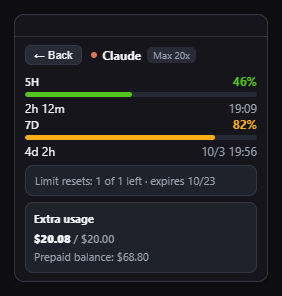
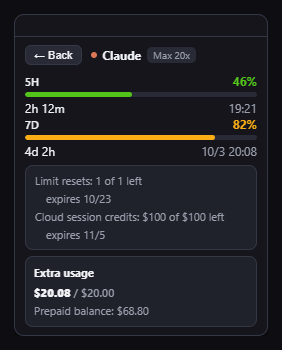
Show Claude's cloud session credits in the detail view
Settings -> Usage on claude.ai now lists a promotional cloud session credit
alongside the plan limits ("US$100 of US$100 left", expires Nov 5). The widget
did not show it. The numbers already arrive in the /usage response, so no extra
request: one of the obfuscated buckets carries limit_dollars / remaining_dollars
/ resets_at (the expiry), and they match the page exactly - $100 of $100 and
Nov 5 16:59 in +09:00. A sibling bucket comes back with every field null and is
ignored. It joins the reset-ticket line in the detail box.

Layout took a second attempt. The first version put label, amount and expiry on
one line, which wrapped in both languages - and the width check that said it fit
was wrong, since a Range over wrapped text reports only the longest line, not the
total. Re-measured with wrapping off, "Cloud session credits: $100 of $100 left ·
expires 11/5" is 257px against 212px of room (the Korean is 256px), and even the
shortened English that just fit would spill as soon as the balance became $62.50.
The expiry now gets its own indented line under each entry, so the main line is
190-209px worst case and nothing depends on where a date happens to wrap.

parseCloudCredits and fmtDollars are pure and tested against the real bucket,
including a spent balance, an already-expired bucket and the all-null sibling.

diff --git a/src/main/collectors/claude-web.ts b/src/main/collectors/claude-web.ts
@@ -2,7 +2,7 @@ import { session as eSession, BrowserWindow, safeStorage } from 'electron'
 import Store from 'electron-store'
 import { UsageSnapshot, UsageWindow, ExtraUsage } from './types'
 import { t } from '../../shared/i18n'
-import { frac, parseResetTickets, ResetTickets } from './usage-math'
+import { frac, parseResetTickets, ResetTickets, parseCloudCredits, CloudCredits, fmtDollars } from './usage-math'
 
 // Uses the same approach as claude-usage-widget: a real claude.ai browser
 // session (sessionKey cookie). The claude.ai web endpoints are what the web app
@@ -151,15 +151,32 @@ function mapExtra(overage: any, prepaid: any): ExtraUsage | undefined {
   }
 }
 
-/** e.g. "Limit resets: 1 of 1 left · expires 10/23" — same slot Codex uses for its
- *  reset credits. Expiry is omitted once none are left. */
-function formatResetTickets(rt: ResetTickets): string {
-  const base = t('claude.resetTickets', rt.left, rt.total)
-  if (!rt.expiresAt || rt.left <= 0) return base
-  const d = new Date(rt.expiresAt)
-  // month/day only, in local time — the same short form the reset clocks use.
-  const when = `${d.getMonth() + 1}/${d.getDate()}`
-  return `${base} · ${t('claude.resetExpires', when)}`
+/** The detail box is ~210px wide, and the amount, the label and the date do not
+ *  reliably fit one line together ("Cloud session credits: $62.50 of $100 left ·
+ *  expires 11/5" is ~260px in English and as wide in Korean), so wrapping decided
+ *  where the date landed. The expiry gets its own indented line instead. An em
+ *  space is used for the indent because HTML collapses ordinary leading spaces. */
+const INDENT = ' '
+
+/** e.g. ["Limit resets: 1 of 1 left", "  expires 10/23"] — the same kind of line
+ *  Codex shows for its reset credits. The expiry is left out once none remain. */
+function formatResetTickets(rt: ResetTickets): string[] {
+  const lines = [t('claude.resetTickets', rt.left, rt.total)]
+  if (rt.expiresAt && rt.left > 0) lines.push(INDENT + t('claude.resetExpires', shortDate(rt.expiresAt)))
+  return lines
+}
+
+/** e.g. ["Cloud session credits: $100 of $100 left", "  expires 11/5"]. */
+function formatCloudCredits(c: CloudCredits): string[] {
+  const lines = [t('claude.cloudCredits', fmtDollars(c.limit), fmtDollars(c.remaining))]
+  if (c.expiresAt && c.remaining > 0) lines.push(INDENT + t('claude.resetExpires', shortDate(c.expiresAt)))
+  return lines
+}
+
+/** month/day only, in local time — the same short form the reset clocks use. */
+function shortDate(iso: string): string {
+  const d = new Date(iso)
+  return `${d.getMonth() + 1}/${d.getDate()}`
 }
 
 /** Returns a snapshot from claude.ai, or null if not logged in / session invalid. */
@@ -194,14 +211,22 @@ export async function collectClaudeWeb(includeExtra: boolean): Promise<UsageSnap
       extra = mapExtra(overage, prepaid)
     }
 
+    // Both live in the /usage response under internal, obfuscated names — the reset
+    // tickets under `cedar_ember` (only present with the flag above) and the cloud
+    // session credits under `iguana_necktie`. If either is renamed its line simply
+    // stops appearing.
+    const info: string[] = []
     const tickets = parseResetTickets(usage.cedar_ember)
+    if (tickets) info.push(...formatResetTickets(tickets))
+    const cloud = parseCloudCredits(usage.iguana_necktie)
+    if (cloud) info.push(...formatCloudCredits(cloud))
 
     return {
       provider: 'claude',
       available: true,
       windows,
       extraUsage: extra,
-      extraInfo: tickets ? [formatResetTickets(tickets)] : undefined,
+      extraInfo: info.length ? info : undefined,
       plan: usage.plan?.name ?? usage.subscription,
       fetched_at: new Date().toISOString(),
       stale: false,

diff --git a/src/main/collectors/usage-math.test.ts b/src/main/collectors/usage-math.test.ts
@@ -1,5 +1,5 @@
 import { describe, it, expect } from 'vitest'
-import { frac, isSpuriousZero, parseResetTickets } from './usage-math'
+import { frac, isSpuriousZero, parseResetTickets, parseCloudCredits, fmtDollars } from './usage-math'
 import { UsageSnapshot, UsageWindow } from './types'
 
 describe('frac', () => {
@@ -148,5 +148,63 @@ describe('parseResetTickets', () => {
   it('skips malformed grants instead of throwing', () => {
     const got = parseResetTickets({ grants: [null, 'x', { resets_left: 'a' }, grant({})] }, NOW)
     expect(got).toMatchObject({ left: 1, total: 1 })
+  })
+})
+
+describe('parseCloudCredits', () => {
+  const NOW = Date.parse('2026-09-29T00:00:00Z')
+
+  // What /usage returned for the cloud session credits bucket.
+  const real = {
+    utilization: 0, resets_at: '2026-11-05T07:59:00+00:00',
+    limit_dollars: 100, used_dollars: 0, remaining_dollars: 100, locked_reason: null
+  }
+
+  it('reads the real bucket', () => {
+    expect(parseCloudCredits(real, NOW)).toEqual({
+      limit: 100, remaining: 100, expiresAt: '2026-11-05T07:59:00.000Z'
+    })
+  })
+
+  it('reports what is left after some is spent', () => {
+    const got = parseCloudCredits({ ...real, used_dollars: 37.5, remaining_dollars: 62.5 }, NOW)
+    expect(got).toMatchObject({ limit: 100, remaining: 62.5 })
+  })
+
+  it('works out the balance from used_dollars when remaining is missing', () => {
+    const { remaining_dollars, ...noRemaining } = { ...real, used_dollars: 40 }
+    expect(parseCloudCredits(noRemaining, NOW)).toMatchObject({ limit: 100, remaining: 60 })
+  })
+
+  it('keeps a spent bucket at zero rather than going negative', () => {
+    expect(parseCloudCredits({ ...real, used_dollars: 100, remaining_dollars: 0 }, NOW)?.remaining).toBe(0)
+    expect(parseCloudCredits({ ...real, remaining_dollars: -3 }, NOW)?.remaining).toBe(0)
+  })
+
+  it('drops a bucket that has already expired', () => {
+    expect(parseCloudCredits({ ...real, resets_at: '2026-09-01T00:00:00Z' }, NOW)).toBeNull()
+  })
+
+  // Several sibling buckets come back with every field null when unused.
+  it('ignores an empty bucket', () => {
+    const empty = { utilization: 0, resets_at: null, limit_dollars: null,
+      used_dollars: null, remaining_dollars: null, locked_reason: null }
+    expect(parseCloudCredits(empty, NOW)).toBeNull()
+    expect(parseCloudCredits(null, NOW)).toBeNull()
+    expect(parseCloudCredits(undefined, NOW)).toBeNull()
+    expect(parseCloudCredits('x', NOW)).toBeNull()
+  })
+
+  it('ignores a bucket with no positive limit', () => {
+    expect(parseCloudCredits({ ...real, limit_dollars: 0 }, NOW)).toBeNull()
+  })
+})
+
+describe('fmtDollars', () => {
+  it('drops the cents on whole amounts and keeps two places otherwise', () => {
+    expect(fmtDollars(100)).toBe('$100')
+    expect(fmtDollars(0)).toBe('$0')
+    expect(fmtDollars(62.5)).toBe('$62.50')
+    expect(fmtDollars(0.07)).toBe('$0.07')
   })
 })

diff --git a/src/main/collectors/usage-math.ts b/src/main/collectors/usage-math.ts
@@ -84,3 +84,45 @@ export function parseResetTickets(v: unknown, now = Date.now()): ResetTickets | 
     usableNow
   }
 }
+
+/** The promotional "cloud session credits" grant shown on claude.ai under
+ *  Settings → Usage: a dollar allowance for cloud sessions that expires. */
+export interface CloudCredits {
+  limit: number
+  remaining: number
+  /** When the unused balance expires. */
+  expiresAt?: string
+}
+
+/** Read the dollar bucket claude.ai returns in `/usage` for cloud session credits.
+ *
+ *  Shape seen: { utilization, resets_at, limit_dollars, used_dollars,
+ *                remaining_dollars, locked_reason } — `resets_at` is the expiry.
+ *  Returns null when there is no bucket (every field null), when it has no
+ *  positive limit, or when it has already expired. */
+export function parseCloudCredits(v: unknown, now = Date.now()): CloudCredits | null {
+  if (!v || typeof v !== 'object') return null
+  const o = v as Record<string, unknown>
+
+  const limit = typeof o.limit_dollars === 'number' ? o.limit_dollars : NaN
+  if (!isFinite(limit) || limit <= 0) return null
+
+  const left = typeof o.remaining_dollars === 'number'
+    ? o.remaining_dollars
+    : typeof o.used_dollars === 'number' ? limit - o.used_dollars : NaN
+  if (!isFinite(left)) return null
+
+  const ends = typeof o.resets_at === 'string' ? Date.parse(o.resets_at) : NaN
+  if (isFinite(ends) && ends <= now) return null // expired
+
+  return {
+    limit,
+    remaining: Math.min(Math.max(left, 0), limit),
+    expiresAt: isFinite(ends) ? new Date(ends).toISOString() : undefined
+  }
+}
+
+/** "$100" for whole dollars, "$12.50" otherwise. */
+export function fmtDollars(n: number): string {
+  return Number.isInteger(n) ? `$${n}` : `$${n.toFixed(2)}`
+}

diff --git a/src/shared/i18n.ts b/src/shared/i18n.ts
@@ -82,6 +82,7 @@ const messages: Record<Lang, Record<string, string>> = {
     'codex.resetCredits': '리셋 크레딧: {0}개',
     'claude.resetTickets': '리셋권: {0}/{1}개 남음',
     'claude.resetExpires': '{0} 만료',
+    'claude.cloudCredits': '클라우드 세션 크레딧: {0} 중 {1} 남음',
     'codex.localTokens5h': '로컬 토큰 (5시간): {0}',
     'codex.localTokens7d': '로컬 토큰 (주간): {0}',
     // antigravity
@@ -172,6 +173,7 @@ const messages: Record<Lang, Record<string, string>> = {
     'codex.resetCredits': 'Reset credits: {0}',
     'claude.resetTickets': 'Limit resets: {0} of {1} left',
     'claude.resetExpires': 'expires {0}',
+    'claude.cloudCredits': 'Cloud session credits: {1} of {0} left',
     'codex.localTokens5h': 'Local tokens (5h): {0}',
     'codex.localTokens7d': 'Local tokens (weekly): {0}',
     'ag.turnOn': 'Open Antigravity IDE to update',

diff --git a/README.md b/README.md
@@ -44,7 +44,7 @@ All data is read locally / from the official services you're already signed into
 
 | Provider | Source | Notes |
 |---|---|---|
-| **Claude** | `claude.ai` usage API via a one-time in-app login (sessionKey, persisted as a cookie) | Shows 5H / 7D % + reset and extra usage (overage / prepaid). The detail view also lists your unused limit-reset tickets (Settings → Usage → Resets on claude.ai) with their expiry. Not logged in → just a login button. |
+| **Claude** | `claude.ai` usage API via a one-time in-app login (sessionKey, persisted as a cookie) | Shows 5H / 7D % + reset and extra usage (overage / prepaid). The detail view also lists your unused limit-reset tickets (Settings → Usage → Resets on claude.ai) and your cloud session credits, each with its expiry. Not logged in → just a login button. |
 | **Codex** | `chatgpt.com/backend-api/codex/usage` using the token in `~/.codex/auth.json` | Fetched through a hidden Chromium window (passes Cloudflare). Shows 5H / weekly % + reset, plan, credits. Falls back to local token counts from `~/.codex/logs_2.sqlite`. |
 | **Grok** | `grok.com/rest/rate-limits` via a one-time in-app login | Fetched from inside the page so it carries the session. Shows the quota window (e.g. 2H) as used %, plus queries used / total. The endpoint reports the window length but no reset time, so the reset clock is estimated from when the window was first seen partly used. |
 | **Gemini** | The Antigravity IDE's local Language Server (loopback, no extra auth) | Live only while the IDE is open; shows prompt/flow credit usage + reset and full plan details. When closed, the last fetched value is cached and shown. |
@@ -82,7 +82,7 @@ src/
 - Reading the session straight out of Chrome's encrypted cookie store is intentionally not implemented.
 - The Gemini card reads the Antigravity IDE's language server, so it has no live data while that IDE is closed (the cached value is shown instead).
 - Grok's quota endpoint is an internal grok.com API, not a documented one — it can change without notice.
-- Claude's reset tickets come from `/usage?cedar_ember=1`. That flag is an internal name claude.ai's own page uses, and the server rejects flags it does not recognise, so if it is ever renamed the widget quietly falls back to the plain `/usage` call: the usage numbers are unaffected and only the reset-ticket line disappears.
+- Claude's reset tickets and cloud session credits are read from fields in the `/usage` response with internal, obfuscated names (`cedar_ember`, which also has to be requested with `?cedar_ember=1`, and `iguana_necktie`). The names are whatever claude.ai's own page uses and the server rejects flags it does not recognise, so if either is renamed that line quietly disappears and the widget falls back to the plain `/usage` call: the 5H / 7D numbers are unaffected.
 
 ## Credits
 
